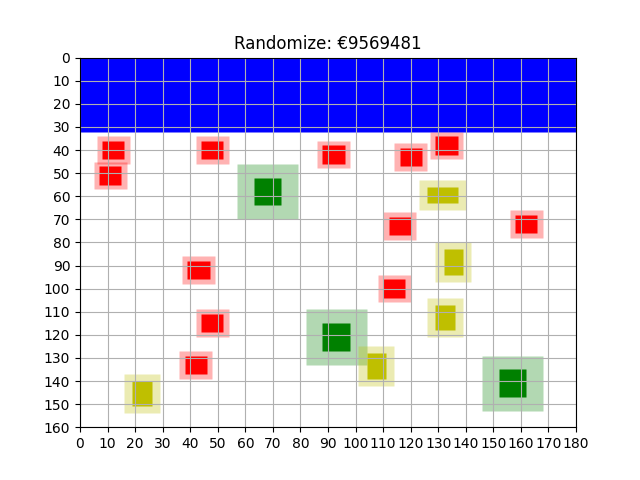
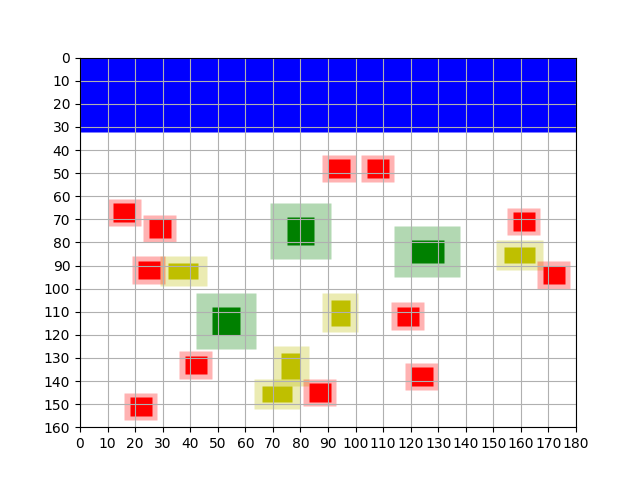
Fixed comments in greedy

diff --git a/code/algorithms/greedy.py b/code/algorithms/greedy.py
@@ -1,13 +1,21 @@
+################################################################################
+# greedy.py
+#
+# Programmeertheorie
+# Anne Zonneveld, Fleur Tervoort, Seike Appold
+#
+# Implements greedy algorithm to generate a solution for the Amstelhaege case.
+################################################################################
+
 import copy, random
 from code.algorithms import randomize as rz 
 from code.visualization import visualize as vis
 
-
 class Greedy():
 	"""
-	Greedy class that places houses one after another. It assigns the
-	first house randomly. For each subsequent house, it chooses the
-	location that adds most value to the map (i.e. local optimum).
+	Places first house either randomly (type: "random") or in one of the corners
+	of the map (type: "strategy"). Places each subsequent greedily, by choosing
+	the location that renders most valuable map.
 	"""
 
 	def __init__(self, grid):
@@ -16,20 +24,19 @@ class Greedy():
 
 	def place_first_house_randomly(self):
 		""" 
-		Places first house on a random valid location on grid copy and
-		returns updated grid copy. 
+		Places first house on a random valid location and returns updated copy
+		of the grid. 
 		"""
 		copy_grid = copy.deepcopy(self.grid)
 
-		# Randomly pick first house
+		# Pick a house of the biggest type first (heuristic)
 		first_house = copy_grid.all_houses[0]
 
 		# Place house on random valid spot on grid
 		while first_house.placed == False:
-
-			# Define house coordinates based on randomly picked rotation and top left corner
-			random_empty_coordinate = rz.random_empty_coordinate(copy_grid)		
-			first_house.calc_all_coordinates(random_empty_coordinate,"random")
+			# Set potential house coordinates based on random starting coordinate
+			starting_coordinate = rz.random_empty_coordinate(copy_grid)		
+			first_house.calc_all_coordinates(starting_coordinate, rotation="random")
 
 			# If location is valid, place house
 			if first_house.valid_location(copy_grid):
@@ -40,17 +47,16 @@ class Greedy():
 
 	def place_first_house_strategically(self):
 		"""
-		Places first house in one of the corners of the map if possible,
-		else randomly. Places the biggest type of house first. Returns
-		updated grid copy.
+		Places first house in one of the corners of the map if possible, else 
+		randomly, and returns updated copy of initial grid.
 		"""
 		
 		copy_grid = copy.deepcopy(self.grid)
 
-		# Pick one of the biggest houses first
+		# Pick a house of the biggest type first (heuristic)
 		first_house = copy_grid.all_houses[0]
 		
-		# For each corner of the map, define coordinates of top left corner of house
+		# Find starting coordinate to place house horizontally in each map corner
 		bl_corner = (first_house.min_free, copy_grid.depth - first_house.depth - first_house.min_free)
 		tl_corner = (first_house.min_free, first_house.min_free)
 		br_corner = (copy_grid.width - first_house.width - first_house.min_free, copy_grid.depth - first_house.depth - first_house.min_free)
@@ -58,18 +64,17 @@ class Greedy():
 		
 		corner_coordinates = [bl_corner, tl_corner, br_corner, tr_corner]
 		
-		# Place house in one of the corners of the map if possible
+		# Place house horizontally in one of the map corners if possible
 		for coordinate in corner_coordinates:
-
 			first_house.calc_all_coordinates(coordinate, "horizontal")
 
-			# Check if location is valid
+			# If location is valid, place house and stop trying corners
 			if first_house.valid_location(copy_grid):
 				print("Valid location")
 				copy_grid.assignment_house(first_house)
 				break
 		
-		# Place house randomly if it cannot be placed in one of the corners
+		# Place house randomly if it could not be placed in one of the corners
 		if first_house.placed == False:
 			copy_grid = self.place_first_house_randomly()
 	
@@ -77,8 +82,8 @@ class Greedy():
 
 	def check_solution(self, new_grid):
 		"""
-		Returns true if current placement of house on new_grid adds more
-		value to map than all previously tested locations, else false.
+		Returns true if current placement of house adds more value to map than
+		all previously tested locations, else false.
 		"""
 
 		success = False
@@ -94,36 +99,43 @@ class Greedy():
 
 	def run(self, gr_type):
 		"""
-		Runs greedy algortihm. Depending on "gr_type" first house is either
-		placed randomly or strategically based on heuristics. Each remaining 
-		house is placed at the location that adds most value to the map.
+		Runs greedy algortihm and updates grid based on result.
 		"""
 		
+		# Place first house depening on chosen greedy type
 		if gr_type == "random":
-			# Randomly place first house on map
 			copy_grid = self.place_first_house_randomly()
+
 		elif gr_type == "strategy":
-			# Place first house based on heuristics
 			copy_grid = self.place_first_house_strategically()
 		
 		spare_houses = copy_grid.all_houses[1:]
 
 		# For each remaining house, find location that adds most value to map
-		for house_nr in range(len(spare_houses)):
+		for house_nr in range(6):
 			house = spare_houses[house_nr]
-			counter = 1
+	
+			counter_tries = 1
+			counter_valid_tries = 0
 
+			# For each unoccupied coordinate, try placing house
 			for starting_coordinate in copy_grid.all_empty_coordinates:
-				print(f"Try {counter} for {house}")
-				counter += 1
+				print(f"Try {counter_tries} for {house}")
+				counter_tries += 1
 				
-				# Set house coordinates
+				# Set potential house coordinates based on starting coordinate
 				house.calc_all_coordinates(starting_coordinate, rotation="random")
 				
 				if house.valid_location(copy_grid):
 					print("Valid location")
-					# Preliminary assignment of house
+					counter_valid_tries += 1
+
+					# Assign house preliminarily
 					copy_grid.assignment_house(house)
+					
+					# If first valid location for this house, update grid value
+					if counter_valid_tries == 1:
+						self.value = copy_grid.calculate_worth()
 					
 					# Save location if it adds more value than previous locations
 					if self.check_solution(copy_grid):
@@ -133,9 +145,9 @@ class Greedy():
 					# Undo assignment of house to test further locations
 					copy_grid.undo_assignment_house(house)
 			
-			# Permanently place house at location that yielded most value
+			# Permanently place house at location that generated most value
 			house.calc_all_coordinates(best_coordinate, rotation=best_rotation)
 			copy_grid.assignment_house(house)
 			copy_grid.all_houses[house_nr + 1] = house
-		
+
 		self.grid = copy_grid

diff --git a/code/visualization/visualize.py b/code/visualization/visualize.py
@@ -1,105 +1,119 @@
+################################################################################
+# visualize.py
+#
+# Programmeertheorie
+# Anne Zonneveld, Fleur Tervoort, Seike Appold
+#
+# Generates visualizations of a solution for the Amstelhaege case.
+################################################################################
+
 import numpy as np
 import os
 import matplotlib.pyplot as plt
 from matplotlib.collections import PatchCollection
-from IPython import embed
 
 def hist_plot(values, map_name, quantity, name):
     """
-    Creates a histogram.
+    Creates a histogram that represents the total value of a map in relation to
+    the number of times an algorithm has been run. (?)
     """
     
     fig, ax = plt.subplots()
-
     q_iterations = len(values)
 
-    plt.hist(values)
     plt.title(f"{name.capitalize()}: {q_iterations} iterations")
     plt.xlabel("Value (€)")
     plt.ylabel("Frequency")
 
+    # Draw diagram based on passed on results
+    plt.hist(values)
+
     path = os.path.join(".","data", "output", f"{map_name}", f"{quantity}", "figures", "analysis")
 
     if not os.path.exists(path):
         os.makedirs(path)
 
+    # Save diagram to matching directory
     new_path = os.path.join(path, f"{name}_hist.png" )
     plt.savefig(new_path)
 
+
 def iteration_plot(values, map_name, quantity, hc_type, start_state):
     """
-    Creates a plot that shows the development of grid value over iterations.
+    Creates a plot that shows how the value of a map is distributed across
+    the development of grid value over iterations. (?)
     """
 
     fig, ax = plt.subplots()
-
-    # Determine x
-    q_iterations = len(values)
-    x = np.arange(1, q_iterations + 1)
-
-    plt.plot(x, values)
     plt.title(f"Hillclimber; type {hc_type}")
-    plt.xticks(np.arange(0, q_iterations +1, int(0.25*q_iterations)))
     plt.xlabel("Iterations")
     plt.ylabel("Value (€)")
+
+    q_iterations = len(values)
+    iterations = np.arange(1, q_iterations + 1)
+
+     # Draw plot based on passed on results and iterations
+    plt.plot(iterations, values)
+    plt.xticks(np.arange(0, q_iterations +1, int(0.25*q_iterations)))
 
     path = os.path.join(".","data", "output", f"{map_name}", f"{quantity}", "figures", "analysis")
 
     if not os.path.exists(path):
         os.makedirs(path)
-        
+    
+    # Save diagram to matching directory
     new_path = os.path.join(path, f"{start_state}_hillclimber_{hc_type}.png")
     plt.savefig(new_path)
 
+
 def visualize(grid, map_name, quantity, name=""):
-    """
-    Creates a diagram that displays a map of Amstelhaege based on
-    a given grid object.
-    """
+        """
+        Creates a diagram that displays a map of Amstelhaege based on
+        a given grid object.
+        """
 
-    # Create diagram of size of map
-    plt.plot([0, grid.width, grid.depth, 0])
-    plt.xlabel("Width")
-    plt.ylabel("Depth")
+        # Create diagram of size of map
+        plt.plot([0, grid.width, grid.depth, 0])
+        plt.title(f"{name.capitalize()}: €{str(round(grid.value, 2))}")
+        plt.xlabel("Width")
+        plt.ylabel("Depth")
 
-    # Prepare for drawing multiple objects at once
-    fig, ax = plt.subplots()
-    objects = []
+        # Prepare for drawing multiple objects at once
+        fig, ax = plt.subplots()
+        objects = []
 
-    # Set scaling properties
-    plt.xticks(np.arange(0, grid.width + 1, 10))
-    plt.yticks(np.arange(0, grid.depth + 1, 10)) 
-    plt.xlim([0, grid.width])
-    plt.ylim([grid.depth, 0])
+        # Set scaling properties
+        plt.xticks(np.arange(0, grid.width + 1, 10))
+        plt.yticks(np.arange(0, grid.depth + 1, 10)) 
+        plt.xlim([0, grid.width])
+        plt.ylim([grid.depth, 0])
 
-    # Set grid properties
-    plt.grid(True)
+        # Make grid visible on map
+        plt.grid(True)
 
-    # Title
-    plt.title(f"{name.capitalize()}: €{str(round(grid.value, 2))}")
+        # Create representation of water
+        water_coord= grid.load_water()
+        water = draw_water(water_coord)
 
-    # Create representation of water
-    water_coord= grid.load_water()
-    water = draw_water(water_coord)
+        # Create representation of houses
+        houses_coord = grid.all_houses
+        houses = draw_houses(houses_coord, grid)
 
-    # Create representation of houses
-    houses_coord = grid.all_houses
-    houses = draw_houses(houses_coord, grid)
+        # Add water and houses to diagram
+        objects.extend(water + houses)
+        representations = PatchCollection(objects, match_original=True)
+        ax.add_collection(representations)
 
-    # Add water and houses to diagram
-    objects.extend(water + houses)
-    representations = PatchCollection(objects, match_original=True)
-    ax.add_collection(representations)
+        path = os.path.join(".","data", "output", f"{map_name}", f"{quantity}", "figures", "maps")
 
-    # Save diagram to current directory
-    path = os.path.join(".","data", "output", f"{map_name}", f"{quantity}", "figures", "maps")
+        if not os.path.exists(path):
+            os.makedirs(path)
 
-    if not os.path.exists(path):
-        os.makedirs(path)
+        # Save map to matching directory
+        new_path = os.path.join(path, f"{name}.png")
+        plt.savefig(new_path)
 
-    new_path = os.path.join(path, f"{name}.png")
-    plt.savefig(new_path)
-    
+
 def draw_water(water_coord):
     """
     Returns a list of patches based on given coordinates that represent the
@@ -116,6 +130,7 @@ def draw_water(water_coord):
         water.append(plt.Rectangle(bottom_left, width, height, fc="b"))
     
     return water
+
 
 def draw_houses(houses_coord, grid):
     """
@@ -153,3 +168,6 @@ def draw_houses(houses_coord, grid):
             houses.extend((house, free_space))
     
     return houses
+
+
+    
